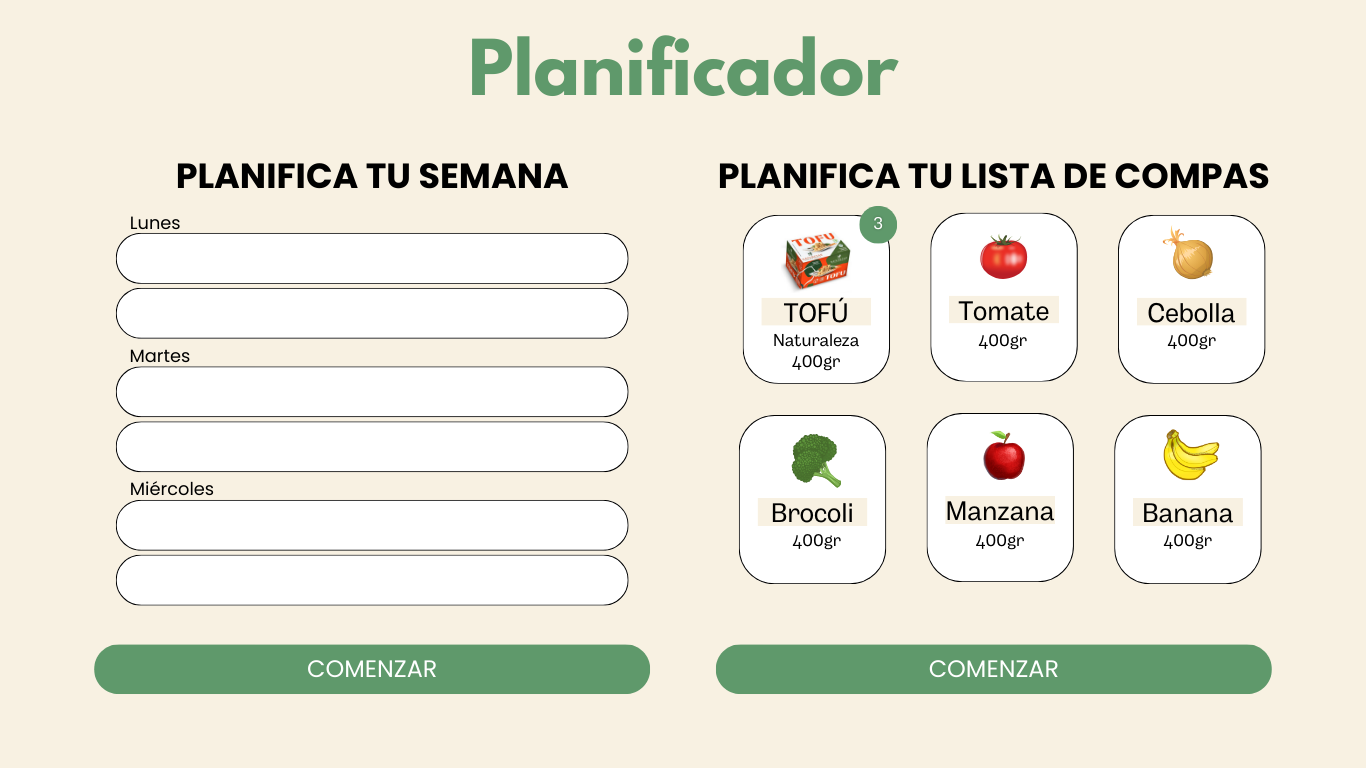
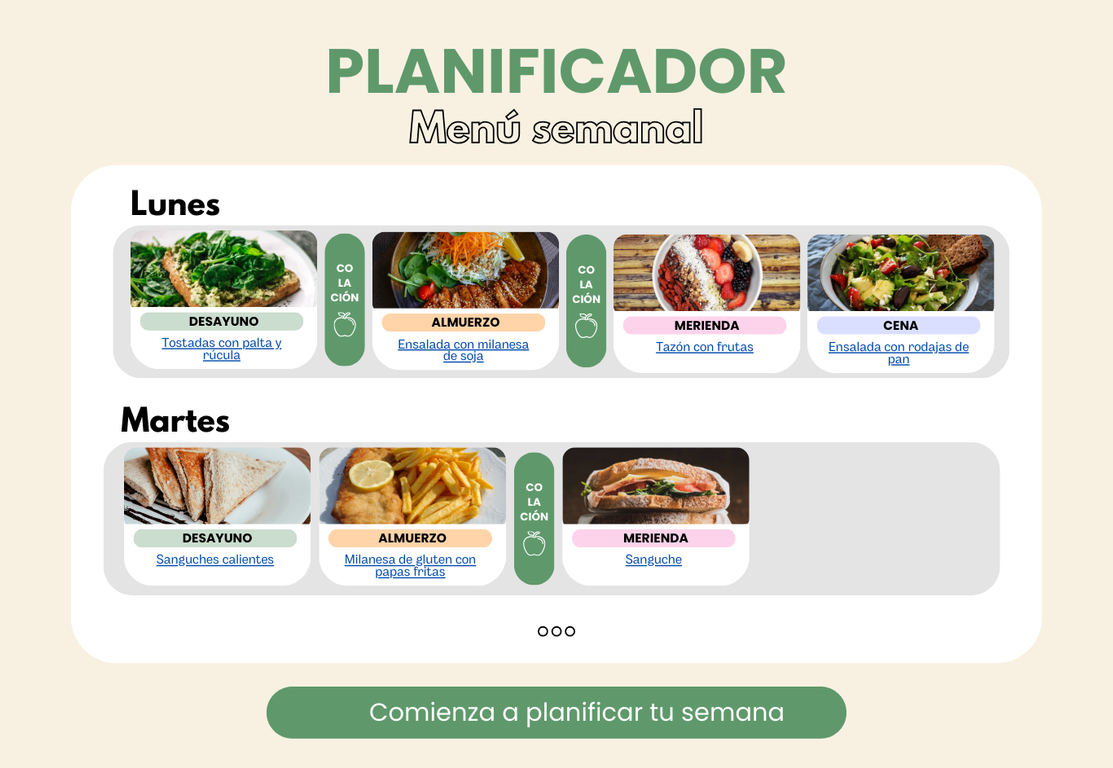
1era versión del planificador semanal

diff --git a/css/styles.css b/css/styles.css
@@ -1,1 +1,1 @@
-body{margin:0;padding:0}.boton{display:flex;justify-content:center}.boton button{border-radius:25px;width:80%;height:3vw;font-family:"Poppins",sans-serif;font-size:1.5vw}@media (max-width: 768px){.boton button{height:6vw;font-size:3vw}}header{display:flex;flex-direction:row;justify-content:space-between;align-items:center;margin-top:0;padding:0 1vw}header #logo{display:flex;flex-direction:row;align-items:center;gap:1vw}header #logo img{width:2vw;height:2vw}header #logo h1{font-size:1.5vw;font-family:"Poppins",sans-serif}header #menuOpciones{display:flex;flex-direction:row;justify-content:space-around;gap:2vw;align-items:center;font-size:1vw}header #menuOpciones p{font-family:"Poppins",sans-serif}@media (max-width: 768px){header #logo{gap:1vw}header #logo img{width:3vw;height:3vw}header #logo h1{font-size:2.5vw}header #menuOpciones{gap:2vw;font-size:2vw}}#previaPrincipal{background-image:url("../assets/Vegan Web.png");background-position:center;background-repeat:no-repeat;background-size:cover;position:relative;height:27vw;display:flex;justify-content:center;align-items:center}#previaPrincipal .slogan h1{color:#5F996B;text-align:center;font-family:"Poppins",sans-serif;font-weight:400;font-size:3vw}#previaPrincipal .slogan h1 #palabraVegano{text-transform:uppercase;font-weight:600}#previaPrincipal .slogan h1 #palabraUruguay{text-transform:uppercase;font-weight:600;font-size:4vw}#previaRecetario{background-color:#CBDDCE}#previaRecetario .subtituloRecetario{display:flex;flex-direction:row;justify-content:space-around;align-items:center;padding:0 2vw;padding:2vw}#previaRecetario .subtituloRecetario h2{margin:0;font-family:"League Spartan",sans-serif;font-size:5vw}#previaRecetario .subtituloRecetario button{border:none;background:white;width:70%}@media (max-width: 768px){#previaRecetario .subtituloRecetario{display:flex;flex-direction:column;align-items:center;gap:1vw}}#previaRecetario .tresCartasRecetasPrevia{display:flex;flex-direction:row;gap:3vw;padding:2vw;justify-content:center;align-items:center}#previaRecetario .tresCartasRecetasPrevia .cartaPreviaReceta{background-color:white;justify-content:center;display:flex;flex-direction:column;width:25vw}#previaRecetario .tresCartasRecetasPrevia .cartaPreviaReceta .nombreRecetaIndex{background-color:#CBDDCE;text-align:center;width:90%;margin:1vw;border-radius:25px;height:3vw;display:flex;justify-content:center;align-items:center}#previaRecetario .tresCartasRecetasPrevia .cartaPreviaReceta .nombreRecetaIndex p{text-transform:uppercase;font-family:"Poppins",sans-serif;font-weight:500;font-size:1vw}#previaRecetario .tresCartasRecetasPrevia .cartaPreviaReceta .imagenRecetaIndex{display:flex;justify-content:center}#previaRecetario .tresCartasRecetasPrevia .cartaPreviaReceta .imagenRecetaIndex img{width:23vw;height:13vw}#previaRecetario .tresCartasRecetasPrevia .cartaPreviaReceta .botonCartaRecetaIndex{padding:2vw 0 2vw 0;display:flex;justify-content:center}#previaRecetario .tresCartasRecetasPrevia .cartaPreviaReceta .botonCartaRecetaIndex button{border:none;background:#CBDDCE;border-radius:25px;width:70%;font-size:1.5vw;height:2.5vw;font-family:"Poppins",sans-serif}#previaRecetario .tresCartasRecetasPrevia .cartaPreviaReceta .informacionRecetas{padding:0 1vw}#previaRecetario .tresCartasRecetasPrevia .cartaPreviaReceta .informacionRecetas .categoriaReceta{display:flex;flex-direction:row;align-items:center;justify-content:space-between}#previaRecetario .tresCartasRecetasPrevia .cartaPreviaReceta .informacionRecetas .categoriaReceta p{font-family:"Poppins",sans-serif}#previaRecetario .tresCartasRecetasPrevia .cartaPreviaReceta .informacionRecetas .CategoriaReceta_texto{width:50%}#previaRecetario .tresCartasRecetasPrevia .cartaPreviaReceta .informacionRecetas .CategoriaReceta_texto p{border:solid black 1px;background-color:#CBDDCE;height:20px;text-align:center;border-radius:25px;font-family:"Poppins",sans-serif}#previaRecetario .tresCartasRecetasPrevia .cartaPreviaReceta .informacionRecetas_introduccion{display:none}@media (max-width: 1024px){#previaRecetario .tresCartasRecetasPrevia{gap:4vw}#previaRecetario .tresCartasRecetasPrevia .cartaPreviaReceta{width:30vw}}#previaRecetario .tresCartasRecetasPrevia .cartaPreviaReceta:nth-child(1) .categoriaReceta:nth-child(1) .barraAfuera{border:solid black 1px;width:50%;height:20px}#previaRecetario .tresCartasRecetasPrevia .cartaPreviaReceta:nth-child(1) .categoriaReceta:nth-child(1) .barraAfuera .barraDentro{width:25%;height:20px;background-color:#CBDDCE}#previaRecetario .tresCartasRecetasPrevia .cartaPreviaReceta:nth-child(1) .categoriaReceta:nth-child(2) .barraAfuera{border:solid black 1px;width:50%;height:20px}#previaRecetario .tresCartasRecetasPrevia .cartaPreviaReceta:nth-child(1) .categoriaReceta:nth-child(2) .barraAfuera .barraDentro{width:50%;height:20px;background-color:#CBDDCE}#previaRecetario .tresCartasRecetasPrevia .cartaPreviaReceta:nth-child(1) .categoriaReceta:nth-child(3) .barraAfuera{border:solid black 1px;width:50%;height:20px}#previaRecetario .tresCartasRecetasPrevia .cartaPreviaReceta:nth-child(1) .categoriaReceta:nth-child(3) .barraAfuera .barraDentro{width:75%;height:20px;background-color:#CBDDCE}#previaRecetario .tresCartasRecetasPrevia .cartaPreviaReceta:nth-child(1) .categoriaReceta:nth-child(4) .barraAfuera{border:solid black 1px;width:50%;height:20px}#previaRecetario .tresCartasRecetasPrevia .cartaPreviaReceta:nth-child(1) .categoriaReceta:nth-child(4) .barraAfuera .barraDentro{width:10%;height:20px;background-color:#CBDDCE}#previaRecetario .tresCartasRecetasPrevia .cartaPreviaReceta:nth-child(2) .categoriaReceta:nth-child(1) .barraAfuera{border:solid black 1px;width:50%;height:20px}#previaRecetario .tresCartasRecetasPrevia .cartaPreviaReceta:nth-child(2) .categoriaReceta:nth-child(1) .barraAfuera .barraDentro{width:60%;height:20px;background-color:#CBDDCE}#previaRecetario .tresCartasRecetasPrevia .cartaPreviaReceta:nth-child(2) .categoriaReceta:nth-child(2) .barraAfuera{border:solid black 1px;width:50%;height:20px}#previaRecetario .tresCartasRecetasPrevia .cartaPreviaReceta:nth-child(2) .categoriaReceta:nth-child(2) .barraAfuera .barraDentro{width:40%;height:20px;background-color:#CBDDCE}#previaRecetario .tresCartasRecetasPrevia .cartaPreviaReceta:nth-child(2) .categoriaReceta:nth-child(3) .barraAfuera{border:solid black 1px;width:50%;height:20px}#previaRecetario .tresCartasRecetasPrevia .cartaPreviaReceta:nth-child(2) .categoriaReceta:nth-child(3) .barraAfuera .barraDentro{width:75%;height:20px;background-color:#CBDDCE}#previaRecetario .tresCartasRecetasPrevia .cartaPreviaReceta:nth-child(2) .categoriaReceta:nth-child(4) .barraAfuera{border:solid black 1px;width:50%;height:20px}#previaRecetario .tresCartasRecetasPrevia .cartaPreviaReceta:nth-child(2) .categoriaReceta:nth-child(4) .barraAfuera .barraDentro{width:50%;height:20px;background-color:#CBDDCE}#previaRecetario .tresCartasRecetasPrevia .cartaPreviaReceta:nth-child(3) .categoriaReceta:nth-child(1) .barraAfuera{border:solid black 1px;width:50%;height:20px}#previaRecetario .tresCartasRecetasPrevia .cartaPreviaReceta:nth-child(3) .categoriaReceta:nth-child(1) .barraAfuera .barraDentro{width:60%;height:20px;background-color:#CBDDCE}#previaRecetario .tresCartasRecetasPrevia .cartaPreviaReceta:nth-child(3) .categoriaReceta:nth-child(2) .barraAfuera{border:solid black 1px;width:50%;height:20px}#previaRecetario .tresCartasRecetasPrevia .cartaPreviaReceta:nth-child(3) .categoriaReceta:nth-child(2) .barraAfuera .barraDentro{width:20%;height:20px;background-color:#CBDDCE}#previaRecetario .tresCartasRecetasPrevia .cartaPreviaReceta:nth-child(3) .categoriaReceta:nth-child(3) .barraAfuera{border:solid black 1px;width:50%;height:20px}#previaRecetario .tresCartasRecetasPrevia .cartaPreviaReceta:nth-child(3) .categoriaReceta:nth-child(3) .barraAfuera .barraDentro{width:20%;height:20px;background-color:#CBDDCE}#previaRecetario .tresCartasRecetasPrevia .cartaPreviaReceta:nth-child(3) .categoriaReceta:nth-child(4) .barraAfuera{border:solid black 1px;width:50%;height:20px}#previaRecetario .tresCartasRecetasPrevia .cartaPreviaReceta:nth-child(3) .categoriaReceta:nth-child(4) .barraAfuera .barraDentro{width:50%;height:20px;background-color:#CBDDCE}@media (max-width: 768px){#previaRecetario .tresCartasRecetasPrevia{display:flex;flex-direction:column}#previaRecetario .tresCartasRecetasPrevia .cartaPreviaReceta{width:90%;display:grid;grid-template-columns:1fr 2fr;grid-template-rows:repeat(3, 1fr);grid-template-rows:min-content;border-radius:25px;gap:vw}#previaRecetario .tresCartasRecetasPrevia .cartaPreviaReceta .nombreRecetaIndex{grid-column:2/3;grid-row:1/1}#previaRecetario .tresCartasRecetasPrevia .cartaPreviaReceta .nombreRecetaIndex p{font-size:2vw}#previaRecetario .tresCartasRecetasPrevia .cartaPreviaReceta .imagenRecetaIndex{grid-column:1/2;grid-row:1/4;justify-content:start}#previaRecetario .tresCartasRecetasPrevia .cartaPreviaReceta .imagenRecetaIndex img{border-top-left-radius:25px;border-end-start-radius:25px;width:100%;height:100%}#previaRecetario .tresCartasRecetasPrevia .cartaPreviaReceta .botonCartaRecetaIndex{grid-column:2/3;grid-row:3/3}#previaRecetario .tresCartasRecetasPrevia .cartaPreviaReceta .botonCartaRecetaIndex button{background-color:white;border:solid black 1px;font-size:2vw;display:flex;justify-content:center;align-items:center}#previaRecetario .tresCartasRecetasPrevia .cartaPreviaReceta .informacionRecetas{display:none}#previaRecetario .tresCartasRecetasPrevia .cartaPreviaReceta .informacionRecetas_introduccion{display:block;grid-column:2/3;grid-row:2/3;padding:0 1.5vw}#previaRecetario .tresCartasRecetasPrevia .cartaPreviaReceta .informacionRecetas_introduccion p{font-size:2vw;text-align:center}}@media (max-width: 480px){#previaRecetario .tresCartasRecetasPrevia .cartaPreviaReceta .nombreRecetaIndex p{font-size:3vw}#previaRecetario .tresCartasRecetasPrevia .cartaPreviaReceta .botonCartaRecetaIndex button{font-size:3vw;width:70%;height:4vw}#previaRecetario .tresCartasRecetasPrevia .cartaPreviaReceta .imagenRecetaIndex{justify-content:start}#previaRecetario .tresCartasRecetasPrevia .cartaPreviaReceta .imagenRecetaIndex img{height:100%}}#previaAptos .subtituloIndex{display:flex;flex-direction:column;align-items:center;justify-content:center;padding-top:2vw}#previaAptos .subtituloIndex h2{margin:0;font-family:"Poppins",sans-serif;font-size:3vw}#previaAptos .subtituloIndex h3{margin:0;font-family:"Poppins",sans-serif;font-size:2vw;font-weight:500}#previaAptos .circulos{display:flex;justify-content:space-around;align-items:center;padding:3vw 0;gap:1vw}#previaAptos .circulos #ciruclosIzquierda,#previaAptos .circulos #circulosDerecha,#previaAptos .circulos #menuCirculosCentro{display:flex;flex-direction:row;align-items:center;gap:5vw}#previaAptos .circulos .rosado{background-color:#FDD3EB}#previaAptos .circulos .anaranjado{background-color:#FFB672}#previaAptos .circulos .verde{background-color:#CBDDCE}#previaAptos .circulos .circuloChico{width:3vw;height:3vw;border-radius:50%}#previaAptos .circulos .circuloMediano{width:4vw;height:4vw;border-radius:50%}#previaAptos .circulos .circuloGrande{width:5vw;height:5vw;border-radius:50%}#previaAptos .circulos .circuloNormal{width:6vw;height:6vw;border-radius:50%}#previaAptos .productosIndex{display:flex;flex-direction:row;justify-content:center;align-items:center;padding:0 2vw;gap:2vw}#previaAptos .productosIndex .cartaProductoIndex{display:flex;flex-direction:column;align-items:center;border:black 1px solid;padding:1vw}#previaAptos .productosIndex .cartaProductoIndex .imagenProductoIndex img{width:15vw;height:auto;margin-bottom:1.5vw}#previaAptos .productosIndex .cartaProductoIndex .nombreProductoIndex{font-family:"Poppins",sans-serif;padding:0}#previaAptos .productosIndex .cartaProductoIndex .nombreProductoIndex p{margin:0;padding:0 0.5vw;font-weight:400;font-size:2vw}#previaAptos .productosIndex .cartaProductoIndex .marcaProductoIndex{font-family:"League Spartan",sans-serif;font-weight:600;font-size:2vw}#previaAptos .productosIndex .cartaProductoIndex .marcaProductoIndex p{margin-top:2vw}#previaAptos .productosIndex .cartaProductoIndex .precioProductoIndex{font-family:"League Spartan",sans-serif;font-weight:300;font-size:2.5vw}#previaAptos .productosIndex .cartaProductoIndex .precioProductoIndex p{margin:0}#previaAptos .productosIndex .cartaProductoIndex:nth-of-type(1) .nombreProductoIndex{background-color:#FFB672}#previaAptos .productosIndex .cartaProductoIndex:nth-of-type(2) .nombreProductoIndex{background-color:#CBDDCE}#previaAptos .productosIndex .cartaProductoIndex:nth-of-type(3) .nombreProductoIndex{background-color:#FDD3EB}#previaAptos .botonAptosIndex{margin:5vw}#previaAptos .botonAptosIndex button{border:none;background-color:#CBDDCE}#previaMontevideo{background-color:#FFB672}#previaMontevideo .SubtituloMontevideoIndex h2{font-family:"Poppins",sans-serif;text-align:center;font-size:5vw;color:white;margin:0 0 2vw 0;text-shadow:1px 1px 2px gray}#previaMontevideo .cartasMontevideoIndex{display:flex;flex-direction:row;gap:2vw;justify-content:center;padding-bottom:3vw}#previaMontevideo .cartasMontevideoIndex .cartaMontevideoIndex{border-radius:50% 50% 10% 10%;background-color:white;display:flex;flex-direction:column;gap:0.5vw;width:28vw;height:25vw;overflow:hidden}#previaMontevideo .cartasMontevideoIndex .cartaMontevideoIndex .cartaImagenMontevideo{display:flex;justify-content:center;height:10vw}#previaMontevideo .cartasMontevideoIndex .cartaMontevideoIndex .cartaImagenMontevideo img{width:100%;height:auto}#previaMontevideo .cartasMontevideoIndex .cartaMontevideoIndex .cartaInformacionMontevideo{display:flex;flex-direction:column;justify-content:center;align-items:center}#previaMontevideo .cartasMontevideoIndex .cartaMontevideoIndex .cartaInformacionMontevideo p{text-align:center;padding:0 1.5vw;margin:0;font-size:1.2vw;font-family:"League Spartan",sans-serif}#previaMontevideo .cartasMontevideoIndex .cartaMontevideoIndex .cartaInformacionMontevideo p:not(:first-child){margin-bottom:1vw}#previaMontevideo .cartasMontevideoIndex .cartaMontevideoIndex .cartaInformacionMontevideo .cartaNombreMontevideo{font-family:"Poppins",sans-serif;font-weight:600;font-size:2vw}#previaMontevideo .cartasMontevideoIndex .cartaMontevideoIndex .cartaInformacionMontevideo .cartaDescripcionMontevideo{font-weight:400;font-size:1.5vw}#previaMontevideo .cartasMontevideoIndex .cartaMontevideoIndex .cartaInformacionMontevideo .cartaHorarioMontevideo{margin-bottom:1vw}@media (max-width: 768px){#previaMontevideo .cartasMontevideoIndex .cartaMontevideoIndex:first-child{display:none}#previaMontevideo .cartasMontevideoIndex .cartaMontevideoIndex{height:35vw;width:45vw}#previaMontevideo .cartasMontevideoIndex .cartaMontevideoIndex .cartaImagenMontevideo{height:15vw}#previaMontevideo .cartasMontevideoIndex .cartaMontevideoIndex .cartaInformacionMontevideo p{text-align:center;padding:0 1.5vw;font-size:2vw;font-family:"League Spartan",sans-serif}#previaMontevideo .cartasMontevideoIndex .cartaMontevideoIndex .cartaInformacionMontevideo .cartaNombreMontevideo{font-size:2.5vw}#previaMontevideo .cartasMontevideoIndex .cartaMontevideoIndex .cartaInformacionMontevideo .cartaDescripcionMontevideo{font-size:2.5vw}}#previaMontevideo .botonMontevideoIndex{padding:2vw 0 2vw 0}#previaMontevideo .botonMontevideoIndex button{border:none;box-shadow:1px 1px 2px gray;background-color:white}@media (max-width: 768px){#previaMontevideo .SubtituloMontevideoIndex h2{font-size:6.5vw}}#previaBlog{padding-top:3vw;display:flex;flex-direction:column;gap:3vw;padding-bottom:5vw}#previaBlog .subtituloResaltadorBlogIndex{display:flex;align-items:center;justify-content:center;position:relative}#previaBlog .subtituloResaltadorBlogIndex img{height:7vw}#previaBlog .subtituloResaltadorBlogIndex .subtituloBlogIndex{position:absolute}#previaBlog .subtituloResaltadorBlogIndex .subtituloBlogIndex h2{font-family:"Poppins",sans-serif;font-size:5vw}#previaBlog .cartasBlogIndex{display:flex;flex-direction:row;align-items:center;justify-content:center;gap:2vw;padding:0 2vw}#previaBlog .cartasBlogIndex .cartaBlogIndex{border:black 1px solid;padding:1vw;background:white}#previaBlog .cartasBlogIndex .cartaBlogIndex .imagenCartaBlogIndex{display:flex;justify-content:center;align-items:center}#previaBlog .cartasBlogIndex .cartaBlogIndex .imagenCartaBlogIndex img{width:20vw;height:auto}#previaBlog .cartasBlogIndex .cartaBlogIndex .tituloCartaBlogIndex{background-color:#FFB672}#previaBlog .cartasBlogIndex .cartaBlogIndex .tituloCartaBlogIndex p{color:white;text-shadow:1px 1px 2px gray;font-family:"Poppins",sans-serif;text-align:center;font-size:2vw;font-weight:500}#previaBlog .cartasBlogIndex .cartaBlogIndex .infoAdicionalCartaBlogIndex p{font-family:"League Spartan",sans-serif;text-align:center}@media (max-width: 480px){#previaBlog .cartasBlogIndex{flex-direction:column}#previaBlog .cartasBlogIndex .cartaBlogIndex{width:70%;display:grid;grid-template-columns:1fr 2fr;grid-template-rows:1fr 4fr}#previaBlog .cartasBlogIndex .cartaBlogIndex .imagenCartaBlogIndex{grid-column:1/2;grid-row:2/3}#previaBlog .cartasBlogIndex .cartaBlogIndex .imagenCartaBlogIndex img{width:100%;padding:0 3vw}#previaBlog .cartasBlogIndex .cartaBlogIndex .tituloCartaBlogIndex{grid-column:1/3;grid-row:1/2;height:4vw;display:flex;align-items:center;justify-content:center;padding:0}#previaBlog .cartasBlogIndex .cartaBlogIndex .tituloCartaBlogIndex p{font-size:3vw;margin:0}#previaBlog .cartasBlogIndex .cartaBlogIndex .infoAdicionalCartaBlogIndex{grid-column:2/3;grid-row:2/3}#previaBlog .cartasBlogIndex .cartaBlogIndex .infoAdicionalCartaBlogIndex p{font-size:2.5vw}}@media (max-width: 480px){#previaBlog .cartaBlogIndex:first-child,#previaBlog .cartaBlogIndex:last-child{display:none}}#previaBlog .botonBlogIndex button{border:none;background-color:#FDD3EB}
+body{margin:0;padding:0}.boton{display:flex;justify-content:center}.boton button{border-radius:25px;width:80%;height:3vw;font-family:"Poppins",sans-serif;font-size:1.5vw}@media (max-width: 768px){.boton button{height:6vw;font-size:3vw}}header{display:flex;flex-direction:row;justify-content:space-between;align-items:center;margin-top:0;padding:0 1vw}header #logo{display:flex;flex-direction:row;align-items:center;gap:1vw}header #logo img{width:2vw;height:2vw}header #logo h1{font-size:1.5vw;font-family:"Poppins",sans-serif}header #menuOpciones{display:flex;flex-direction:row;justify-content:space-around;gap:2vw;align-items:center;font-size:1vw}header #menuOpciones p{font-family:"Poppins",sans-serif}@media (max-width: 768px){header #logo{gap:1vw}header #logo img{width:3vw;height:3vw}header #logo h1{font-size:2.5vw}header #menuOpciones{gap:2vw;font-size:2vw}}#previaPrincipal{background-image:url("../assets/Vegan Web.png");background-position:center;background-repeat:no-repeat;background-size:cover;position:relative;height:27vw;display:flex;justify-content:center;align-items:center}#previaPrincipal .slogan h1{color:#5F996B;text-align:center;font-family:"Poppins",sans-serif;font-weight:400;font-size:3vw}#previaPrincipal .slogan h1 #palabraVegano{text-transform:uppercase;font-weight:600}#previaPrincipal .slogan h1 #palabraUruguay{text-transform:uppercase;font-weight:600;font-size:4vw}#previaRecetario{background-color:#CBDDCE}#previaRecetario .subtituloRecetario{display:flex;flex-direction:row;justify-content:space-around;align-items:center;padding:0 2vw;padding:2vw}#previaRecetario .subtituloRecetario h2{margin:0;font-family:"League Spartan",sans-serif;font-size:5vw}#previaRecetario .subtituloRecetario button{border:none;background:white;width:70%}@media (max-width: 768px){#previaRecetario .subtituloRecetario{display:flex;flex-direction:column;align-items:center;gap:1vw}}#previaRecetario .tresCartasRecetasPrevia{display:flex;flex-direction:row;gap:3vw;padding:2vw;justify-content:center;align-items:center}#previaRecetario .tresCartasRecetasPrevia .cartaPreviaReceta{background-color:white;justify-content:center;display:flex;flex-direction:column;width:25vw}#previaRecetario .tresCartasRecetasPrevia .cartaPreviaReceta .nombreRecetaIndex{background-color:#CBDDCE;text-align:center;width:90%;margin:1vw;border-radius:25px;height:3vw;display:flex;justify-content:center;align-items:center}#previaRecetario .tresCartasRecetasPrevia .cartaPreviaReceta .nombreRecetaIndex p{text-transform:uppercase;font-family:"Poppins",sans-serif;font-weight:500;font-size:1vw}#previaRecetario .tresCartasRecetasPrevia .cartaPreviaReceta .imagenRecetaIndex{display:flex;justify-content:center}#previaRecetario .tresCartasRecetasPrevia .cartaPreviaReceta .imagenRecetaIndex img{width:23vw;height:13vw}#previaRecetario .tresCartasRecetasPrevia .cartaPreviaReceta .botonCartaRecetaIndex{padding:2vw 0 2vw 0;display:flex;justify-content:center}#previaRecetario .tresCartasRecetasPrevia .cartaPreviaReceta .botonCartaRecetaIndex button{border:none;background:#CBDDCE;border-radius:25px;width:70%;font-size:1.5vw;height:2.5vw;font-family:"Poppins",sans-serif}#previaRecetario .tresCartasRecetasPrevia .cartaPreviaReceta .informacionRecetas{padding:0 1vw}#previaRecetario .tresCartasRecetasPrevia .cartaPreviaReceta .informacionRecetas .categoriaReceta{display:flex;flex-direction:row;align-items:center;justify-content:space-between}#previaRecetario .tresCartasRecetasPrevia .cartaPreviaReceta .informacionRecetas .categoriaReceta p{font-family:"Poppins",sans-serif}#previaRecetario .tresCartasRecetasPrevia .cartaPreviaReceta .informacionRecetas .CategoriaReceta_texto{width:50%}#previaRecetario .tresCartasRecetasPrevia .cartaPreviaReceta .informacionRecetas .CategoriaReceta_texto p{border:solid black 1px;background-color:#CBDDCE;height:20px;text-align:center;border-radius:25px;font-family:"Poppins",sans-serif}#previaRecetario .tresCartasRecetasPrevia .cartaPreviaReceta .informacionRecetas_introduccion{display:none}@media (max-width: 1024px){#previaRecetario .tresCartasRecetasPrevia{gap:4vw}#previaRecetario .tresCartasRecetasPrevia .cartaPreviaReceta{width:30vw}}#previaRecetario .tresCartasRecetasPrevia .cartaPreviaReceta:nth-child(1) .categoriaReceta:nth-child(1) .barraAfuera{border:solid black 1px;width:50%;height:20px}#previaRecetario .tresCartasRecetasPrevia .cartaPreviaReceta:nth-child(1) .categoriaReceta:nth-child(1) .barraAfuera .barraDentro{width:25%;height:20px;background-color:#CBDDCE}#previaRecetario .tresCartasRecetasPrevia .cartaPreviaReceta:nth-child(1) .categoriaReceta:nth-child(2) .barraAfuera{border:solid black 1px;width:50%;height:20px}#previaRecetario .tresCartasRecetasPrevia .cartaPreviaReceta:nth-child(1) .categoriaReceta:nth-child(2) .barraAfuera .barraDentro{width:50%;height:20px;background-color:#CBDDCE}#previaRecetario .tresCartasRecetasPrevia .cartaPreviaReceta:nth-child(1) .categoriaReceta:nth-child(3) .barraAfuera{border:solid black 1px;width:50%;height:20px}#previaRecetario .tresCartasRecetasPrevia .cartaPreviaReceta:nth-child(1) .categoriaReceta:nth-child(3) .barraAfuera .barraDentro{width:75%;height:20px;background-color:#CBDDCE}#previaRecetario .tresCartasRecetasPrevia .cartaPreviaReceta:nth-child(1) .categoriaReceta:nth-child(4) .barraAfuera{border:solid black 1px;width:50%;height:20px}#previaRecetario .tresCartasRecetasPrevia .cartaPreviaReceta:nth-child(1) .categoriaReceta:nth-child(4) .barraAfuera .barraDentro{width:10%;height:20px;background-color:#CBDDCE}#previaRecetario .tresCartasRecetasPrevia .cartaPreviaReceta:nth-child(2) .categoriaReceta:nth-child(1) .barraAfuera{border:solid black 1px;width:50%;height:20px}#previaRecetario .tresCartasRecetasPrevia .cartaPreviaReceta:nth-child(2) .categoriaReceta:nth-child(1) .barraAfuera .barraDentro{width:60%;height:20px;background-color:#CBDDCE}#previaRecetario .tresCartasRecetasPrevia .cartaPreviaReceta:nth-child(2) .categoriaReceta:nth-child(2) .barraAfuera{border:solid black 1px;width:50%;height:20px}#previaRecetario .tresCartasRecetasPrevia .cartaPreviaReceta:nth-child(2) .categoriaReceta:nth-child(2) .barraAfuera .barraDentro{width:40%;height:20px;background-color:#CBDDCE}#previaRecetario .tresCartasRecetasPrevia .cartaPreviaReceta:nth-child(2) .categoriaReceta:nth-child(3) .barraAfuera{border:solid black 1px;width:50%;height:20px}#previaRecetario .tresCartasRecetasPrevia .cartaPreviaReceta:nth-child(2) .categoriaReceta:nth-child(3) .barraAfuera .barraDentro{width:75%;height:20px;background-color:#CBDDCE}#previaRecetario .tresCartasRecetasPrevia .cartaPreviaReceta:nth-child(2) .categoriaReceta:nth-child(4) .barraAfuera{border:solid black 1px;width:50%;height:20px}#previaRecetario .tresCartasRecetasPrevia .cartaPreviaReceta:nth-child(2) .categoriaReceta:nth-child(4) .barraAfuera .barraDentro{width:50%;height:20px;background-color:#CBDDCE}#previaRecetario .tresCartasRecetasPrevia .cartaPreviaReceta:nth-child(3) .categoriaReceta:nth-child(1) .barraAfuera{border:solid black 1px;width:50%;height:20px}#previaRecetario .tresCartasRecetasPrevia .cartaPreviaReceta:nth-child(3) .categoriaReceta:nth-child(1) .barraAfuera .barraDentro{width:60%;height:20px;background-color:#CBDDCE}#previaRecetario .tresCartasRecetasPrevia .cartaPreviaReceta:nth-child(3) .categoriaReceta:nth-child(2) .barraAfuera{border:solid black 1px;width:50%;height:20px}#previaRecetario .tresCartasRecetasPrevia .cartaPreviaReceta:nth-child(3) .categoriaReceta:nth-child(2) .barraAfuera .barraDentro{width:20%;height:20px;background-color:#CBDDCE}#previaRecetario .tresCartasRecetasPrevia .cartaPreviaReceta:nth-child(3) .categoriaReceta:nth-child(3) .barraAfuera{border:solid black 1px;width:50%;height:20px}#previaRecetario .tresCartasRecetasPrevia .cartaPreviaReceta:nth-child(3) .categoriaReceta:nth-child(3) .barraAfuera .barraDentro{width:20%;height:20px;background-color:#CBDDCE}#previaRecetario .tresCartasRecetasPrevia .cartaPreviaReceta:nth-child(3) .categoriaReceta:nth-child(4) .barraAfuera{border:solid black 1px;width:50%;height:20px}#previaRecetario .tresCartasRecetasPrevia .cartaPreviaReceta:nth-child(3) .categoriaReceta:nth-child(4) .barraAfuera .barraDentro{width:50%;height:20px;background-color:#CBDDCE}@media (max-width: 768px){#previaRecetario .tresCartasRecetasPrevia{display:flex;flex-direction:column}#previaRecetario .tresCartasRecetasPrevia .cartaPreviaReceta{width:90%;display:grid;grid-template-columns:1fr 2fr;grid-template-rows:repeat(3, 1fr);grid-template-rows:min-content;border-radius:25px;gap:vw}#previaRecetario .tresCartasRecetasPrevia .cartaPreviaReceta .nombreRecetaIndex{grid-column:2/3;grid-row:1/1}#previaRecetario .tresCartasRecetasPrevia .cartaPreviaReceta .nombreRecetaIndex p{font-size:2vw}#previaRecetario .tresCartasRecetasPrevia .cartaPreviaReceta .imagenRecetaIndex{grid-column:1/2;grid-row:1/4;justify-content:start}#previaRecetario .tresCartasRecetasPrevia .cartaPreviaReceta .imagenRecetaIndex img{border-top-left-radius:25px;border-end-start-radius:25px;width:100%;height:100%}#previaRecetario .tresCartasRecetasPrevia .cartaPreviaReceta .botonCartaRecetaIndex{grid-column:2/3;grid-row:3/3}#previaRecetario .tresCartasRecetasPrevia .cartaPreviaReceta .botonCartaRecetaIndex button{background-color:white;border:solid black 1px;font-size:2vw;display:flex;justify-content:center;align-items:center}#previaRecetario .tresCartasRecetasPrevia .cartaPreviaReceta .informacionRecetas{display:none}#previaRecetario .tresCartasRecetasPrevia .cartaPreviaReceta .informacionRecetas_introduccion{display:block;grid-column:2/3;grid-row:2/3;padding:0 1.5vw}#previaRecetario .tresCartasRecetasPrevia .cartaPreviaReceta .informacionRecetas_introduccion p{font-size:2vw;text-align:center}}@media (max-width: 480px){#previaRecetario .tresCartasRecetasPrevia .cartaPreviaReceta .nombreRecetaIndex p{font-size:3vw}#previaRecetario .tresCartasRecetasPrevia .cartaPreviaReceta .botonCartaRecetaIndex button{font-size:3vw;width:70%;height:4vw}#previaRecetario .tresCartasRecetasPrevia .cartaPreviaReceta .imagenRecetaIndex{justify-content:start}#previaRecetario .tresCartasRecetasPrevia .cartaPreviaReceta .imagenRecetaIndex img{height:100%}}#previaAptos .subtituloIndex{display:flex;flex-direction:column;align-items:center;justify-content:center;padding-top:2vw}#previaAptos .subtituloIndex h2{margin:0;font-family:"Poppins",sans-serif;font-size:3vw}#previaAptos .subtituloIndex h3{margin:0;font-family:"Poppins",sans-serif;font-size:2vw;font-weight:500}#previaAptos .circulos{display:flex;justify-content:space-around;align-items:center;padding:3vw 0;gap:1vw}#previaAptos .circulos #ciruclosIzquierda,#previaAptos .circulos #circulosDerecha,#previaAptos .circulos #menuCirculosCentro{display:flex;flex-direction:row;align-items:center;gap:5vw}#previaAptos .circulos .rosado{background-color:#FDD3EB}#previaAptos .circulos .anaranjado{background-color:#FFB672}#previaAptos .circulos .verde{background-color:#CBDDCE}#previaAptos .circulos .circuloChico{width:3vw;height:3vw;border-radius:50%}#previaAptos .circulos .circuloMediano{width:4vw;height:4vw;border-radius:50%}#previaAptos .circulos .circuloGrande{width:5vw;height:5vw;border-radius:50%}#previaAptos .circulos .circuloNormal{width:6vw;height:6vw;border-radius:50%}#previaAptos .productosIndex{display:flex;flex-direction:row;justify-content:center;align-items:center;padding:0 2vw;gap:2vw}#previaAptos .productosIndex .cartaProductoIndex{display:flex;flex-direction:column;align-items:center;border:black 1px solid;padding:1vw}#previaAptos .productosIndex .cartaProductoIndex .imagenProductoIndex img{width:15vw;height:auto;margin-bottom:1.5vw}#previaAptos .productosIndex .cartaProductoIndex .nombreProductoIndex{font-family:"Poppins",sans-serif;padding:0}#previaAptos .productosIndex .cartaProductoIndex .nombreProductoIndex p{margin:0;padding:0 0.5vw;font-weight:400;font-size:2vw}#previaAptos .productosIndex .cartaProductoIndex .marcaProductoIndex{font-family:"League Spartan",sans-serif;font-weight:600;font-size:2vw}#previaAptos .productosIndex .cartaProductoIndex .marcaProductoIndex p{margin-top:2vw}#previaAptos .productosIndex .cartaProductoIndex .precioProductoIndex{font-family:"League Spartan",sans-serif;font-weight:300;font-size:2.5vw}#previaAptos .productosIndex .cartaProductoIndex .precioProductoIndex p{margin:0}#previaAptos .productosIndex .cartaProductoIndex:nth-of-type(1) .nombreProductoIndex{background-color:#FFB672}#previaAptos .productosIndex .cartaProductoIndex:nth-of-type(2) .nombreProductoIndex{background-color:#CBDDCE}#previaAptos .productosIndex .cartaProductoIndex:nth-of-type(3) .nombreProductoIndex{background-color:#FDD3EB}#previaAptos .botonAptosIndex{margin:5vw}#previaAptos .botonAptosIndex button{border:none;background-color:#CBDDCE}#previaMontevideo{background-color:#FFB672}#previaMontevideo .SubtituloMontevideoIndex h2{font-family:"Poppins",sans-serif;text-align:center;font-size:5vw;color:white;margin:0 0 2vw 0;text-shadow:1px 1px 2px gray}#previaMontevideo .cartasMontevideoIndex{display:flex;flex-direction:row;gap:2vw;justify-content:center;padding-bottom:3vw}#previaMontevideo .cartasMontevideoIndex .cartaMontevideoIndex{border-radius:50% 50% 10% 10%;background-color:white;display:flex;flex-direction:column;gap:0.5vw;width:28vw;height:25vw;overflow:hidden}#previaMontevideo .cartasMontevideoIndex .cartaMontevideoIndex .cartaImagenMontevideo{display:flex;justify-content:center;height:10vw}#previaMontevideo .cartasMontevideoIndex .cartaMontevideoIndex .cartaImagenMontevideo img{width:100%;height:auto}#previaMontevideo .cartasMontevideoIndex .cartaMontevideoIndex .cartaInformacionMontevideo{display:flex;flex-direction:column;justify-content:center;align-items:center}#previaMontevideo .cartasMontevideoIndex .cartaMontevideoIndex .cartaInformacionMontevideo p{text-align:center;padding:0 1.5vw;margin:0;font-size:1.2vw;font-family:"League Spartan",sans-serif}#previaMontevideo .cartasMontevideoIndex .cartaMontevideoIndex .cartaInformacionMontevideo p:not(:first-child){margin-bottom:1vw}#previaMontevideo .cartasMontevideoIndex .cartaMontevideoIndex .cartaInformacionMontevideo .cartaNombreMontevideo{font-family:"Poppins",sans-serif;font-weight:600;font-size:2vw}#previaMontevideo .cartasMontevideoIndex .cartaMontevideoIndex .cartaInformacionMontevideo .cartaDescripcionMontevideo{font-weight:400;font-size:1.5vw}#previaMontevideo .cartasMontevideoIndex .cartaMontevideoIndex .cartaInformacionMontevideo .cartaHorarioMontevideo{margin-bottom:1vw}@media (max-width: 768px){#previaMontevideo .cartasMontevideoIndex .cartaMontevideoIndex:first-child{display:none}#previaMontevideo .cartasMontevideoIndex .cartaMontevideoIndex{height:35vw;width:45vw}#previaMontevideo .cartasMontevideoIndex .cartaMontevideoIndex .cartaImagenMontevideo{height:15vw}#previaMontevideo .cartasMontevideoIndex .cartaMontevideoIndex .cartaInformacionMontevideo p{text-align:center;padding:0 1.5vw;font-size:2vw;font-family:"League Spartan",sans-serif}#previaMontevideo .cartasMontevideoIndex .cartaMontevideoIndex .cartaInformacionMontevideo .cartaNombreMontevideo{font-size:2.5vw}#previaMontevideo .cartasMontevideoIndex .cartaMontevideoIndex .cartaInformacionMontevideo .cartaDescripcionMontevideo{font-size:2.5vw}}#previaMontevideo .botonMontevideoIndex{padding:2vw 0 2vw 0}#previaMontevideo .botonMontevideoIndex button{border:none;box-shadow:1px 1px 2px gray;background-color:white}@media (max-width: 768px){#previaMontevideo .SubtituloMontevideoIndex h2{font-size:6.5vw}}#previaBlog{padding-top:3vw;display:flex;flex-direction:column;gap:3vw;padding-bottom:5vw}#previaBlog .subtituloResaltadorBlogIndex{display:flex;align-items:center;justify-content:center;position:relative}#previaBlog .subtituloResaltadorBlogIndex img{height:7vw}#previaBlog .subtituloResaltadorBlogIndex .subtituloBlogIndex{position:absolute}#previaBlog .subtituloResaltadorBlogIndex .subtituloBlogIndex h2{font-family:"Poppins",sans-serif;font-size:5vw}#previaBlog .cartasBlogIndex{display:flex;flex-direction:row;align-items:center;justify-content:center;gap:2vw;padding:0 2vw}#previaBlog .cartasBlogIndex .cartaBlogIndex{border:black 1px solid;padding:1vw;background:white}#previaBlog .cartasBlogIndex .cartaBlogIndex .imagenCartaBlogIndex{display:flex;justify-content:center;align-items:center}#previaBlog .cartasBlogIndex .cartaBlogIndex .imagenCartaBlogIndex img{width:20vw;height:auto}#previaBlog .cartasBlogIndex .cartaBlogIndex .tituloCartaBlogIndex{background-color:#FFB672}#previaBlog .cartasBlogIndex .cartaBlogIndex .tituloCartaBlogIndex p{color:white;text-shadow:1px 1px 2px gray;font-family:"Poppins",sans-serif;text-align:center;font-size:2vw;font-weight:500}#previaBlog .cartasBlogIndex .cartaBlogIndex .infoAdicionalCartaBlogIndex p{font-family:"League Spartan",sans-serif;text-align:center}@media (max-width: 480px){#previaBlog .cartasBlogIndex{flex-direction:column}#previaBlog .cartasBlogIndex .cartaBlogIndex{width:70%;display:grid;grid-template-columns:1fr 2fr;grid-template-rows:1fr 4fr}#previaBlog .cartasBlogIndex .cartaBlogIndex .imagenCartaBlogIndex{grid-column:1/2;grid-row:2/3}#previaBlog .cartasBlogIndex .cartaBlogIndex .imagenCartaBlogIndex img{width:100%;padding:0 3vw}#previaBlog .cartasBlogIndex .cartaBlogIndex .tituloCartaBlogIndex{grid-column:1/3;grid-row:1/2;height:4vw;display:flex;align-items:center;justify-content:center;padding:0}#previaBlog .cartasBlogIndex .cartaBlogIndex .tituloCartaBlogIndex p{font-size:3vw;margin:0}#previaBlog .cartasBlogIndex .cartaBlogIndex .infoAdicionalCartaBlogIndex{grid-column:2/3;grid-row:2/3}#previaBlog .cartasBlogIndex .cartaBlogIndex .infoAdicionalCartaBlogIndex p{font-size:2.5vw}}@media (max-width: 480px){#previaBlog .cartaBlogIndex:first-child,#previaBlog .cartaBlogIndex:last-child{display:none}}#previaBlog .botonBlogIndex button{border:none;background-color:#FDD3EB}#previaPlannerSemanal{background-color:#F8F1E2}#previaPlannerSemanal .previaPlannerSemanal-titulo{display:flex;flex-direction:column;justify-content:center;align-items:center;text-align:center;gap:0}#previaPlannerSemanal .previaPlannerSemanal-titulo .previaPlannerSemanal-titulo_primero{font-family:"Poppins",sans-serif;font-size:4vw;color:#5F996B}#previaPlannerSemanal .previaPlannerSemanal-titulo .previaPlannerSemanal-titulo_primero h2{padding:0;margin:0}#previaPlannerSemanal .previaPlannerSemanal-titulo .previaPlannerSemanal-titulo_segundo{font-family:"Poppins",sans-serif;font-size:3.5vw;color:transparent;-webkit-text-stroke-width:1px;-webkit-text-stroke-color:black}#previaPlannerSemanal .previaPlannerSemanal-titulo .previaPlannerSemanal-titulo_segundo h3{padding:0;margin:0}#previaPlannerSemanal .previaPlannerSemanal-grilla{background-color:white;border-radius:25px;display:flex;flex-direction:column;padding:2vw;margin:0 2vw}#previaPlannerSemanal .previaPlannerSemanal-grilla .grillaPlanificacionDiaSemana{display:flex;flex-direction:column;margin:1vw 0}#previaPlannerSemanal .previaPlannerSemanal-grilla .grillaPlanificacionDiaSemana .grillaTituloDia p{font-family:"League Spartan",sans-serif;font-size:4vw;font-weight:600;padding:0;margin:1vw}#previaPlannerSemanal .previaPlannerSemanal-grilla .grillaPlanificacionDiaSemana .grillaContenedorDia{background-color:#d8d8d8;display:flex;flex-direction:row;align-items:center;border-radius:25px;justify-content:left;padding:1vw;gap:1vw}#previaPlannerSemanal .previaPlannerSemanal-grilla .grillaPlanificacionDiaSemana .grillaContenedorDia .grillaContenedorComida{display:flex;flex-direction:column;background-color:white;padding:1vw;border-radius:25px;gap:1vw}#previaPlannerSemanal .previaPlannerSemanal-grilla .grillaPlanificacionDiaSemana .grillaContenedorDia .grillaContenedorComida .contenedorComidaFoto img{width:20vw;height:auto;border-radius:25px}#previaPlannerSemanal .previaPlannerSemanal-grilla .grillaPlanificacionDiaSemana .grillaContenedorDia .grillaContenedorComida .contenedorComidaTitulo{background-color:#CBDDCE;border-radius:25px;display:flex;flex-direction:column;align-items:center;width:100%}#previaPlannerSemanal .previaPlannerSemanal-grilla .grillaPlanificacionDiaSemana .grillaContenedorDia .grillaContenedorComida .contenedorComidaTitulo p{padding:0;margin:0;font-family:"League Spartan",sans-serif;font-size:3vw;font-weight:500}#previaPlannerSemanal .previaPlannerSemanal-grilla .grillaPlanificacionDiaSemana .grillaContenedorDia .grillaContenedorComida .contenedorComidaNombre{margin:0 auto}#previaPlannerSemanal .previaPlannerSemanal-grilla .grillaPlanificacionDiaSemana .grillaContenedorDia .grillaContenedorComida .contenedorComidaNombre a{font-size:2vw;font-family:"League Spartan",sans-serif}#previaPlannerSemanal .previaPlannerSemanal-grilla .grillaPlanificacionDiaSemana .grillaContenedorDia .grillaContenedorSnack{background-color:#5F996B;height:100%;display:flex;flex-direction:column;align-items:center;justify-content:center;padding:2vw 1vw;border-radius:25px;gap:1vw}#previaPlannerSemanal .previaPlannerSemanal-grilla .grillaPlanificacionDiaSemana .grillaContenedorDia .grillaContenedorSnack .contenedorSnackTitulo p{text-align:center;color:white;font-family:"League Spartan",sans-serif;font-size:2.5vw;line-height:2.5vw;padding:0;margin:0}#previaPlannerSemanal .previaPlannerSemanal-grilla .grillaPlanificacionDiaSemana .grillaContenedorDia .grillaContenedorSnack .contenedorSnackImagen img{width:3vw;height:auto}

diff --git a/scss/styles.scss b/scss/styles.scss
@@ -690,3 +690,128 @@ header{
         }
     }
 }
+
+#previaPlannerSemanal{
+    background-color: $colorBeige;
+    .previaPlannerSemanal-titulo{
+        display: flex;
+        flex-direction: column;
+        justify-content: center;
+        align-items: center;
+        text-align: center;
+        gap: 0;
+        .previaPlannerSemanal-titulo_primero{
+            font-family: $fuent-POPPINS;
+            font-size: 4vw;
+            color: $colorVerdeOscuro;
+            h2{
+                padding: 0;
+                margin: 0;
+            }
+        }
+        .previaPlannerSemanal-titulo_segundo{
+            font-family: $fuent-POPPINS;
+            font-size: 3.5vw;
+            color: transparent; 
+            -webkit-text-stroke-width: 1px; /* Ancho del borde del texto */
+            -webkit-text-stroke-color: black; /* Color del borde del texto */
+            h3{
+                padding: 0;
+                margin: 0;
+            }
+        }
+    }
+    .previaPlannerSemanal-grilla{
+        background-color: white;
+        border-radius: 25px;
+        display: flex;
+        flex-direction: column;
+        padding: 2vw;
+        margin: 0 2vw;
+        .grillaPlanificacionDiaSemana{
+            display: flex;
+            flex-direction: column;
+            margin: 1vw 0;
+            .grillaTituloDia{
+                p{
+                    font-family: $fuente-LEAGUE_SPARTAN;
+                    font-size: 4vw;
+                    font-weight: 600;
+                    padding: 0;
+                    margin: 1vw;
+                }
+            }
+            .grillaContenedorDia{
+                background-color: rgb(216, 216, 216);
+                display: flex;
+                flex-direction: row;
+                align-items: center;
+                border-radius: 25px;
+                justify-content: left;
+                padding: 1vw;
+                gap: 1vw;
+                .grillaContenedorComida{
+                    display: flex;
+                    flex-direction: column;
+                    background-color: white;
+                    padding: 1vw;
+                    border-radius: 25px;
+                    gap: 1vw;
+                    .contenedorComidaFoto img{
+                        width: 20vw;
+                        height: auto;
+                        border-radius: 25px;
+                    }
+                    .contenedorComidaTitulo{
+                        background-color: $colorVerde;
+                        border-radius: 25px;
+                        display: flex;
+                        flex-direction: column;
+                        align-items: center;
+                        width: 100%;
+                        p{
+                            padding: 0;
+                            margin: 0;
+                            font-family: $fuente-LEAGUE_SPARTAN;
+                            font-size: 3vw;
+                            font-weight: 500;
+                        }
+                    }
+                    .contenedorComidaNombre{
+                        margin: 0 auto;
+                        a{
+                            font-size: 2vw;
+                            font-family: $fuente-LEAGUE_SPARTAN;
+                        }
+                    }
+                }
+                .grillaContenedorSnack{
+                    background-color: $colorVerdeOscuro;
+                    height: 100%;
+                    display: flex;
+                    flex-direction: column;
+                    align-items: center;
+                    justify-content: center;
+                    padding: 2vw 1vw;
+                    border-radius: 25px;
+                    gap: 1vw;
+                    .contenedorSnackTitulo{
+                        p{
+                            text-align: center;
+                            color: white;
+                            font-family: $fuente-LEAGUE_SPARTAN;
+                            font-size: 2.5vw;
+                            line-height: 2.5vw;
+                            padding: 0;
+                            margin: 0;
+                        }
+                    }
+                    .contenedorSnackImagen img{
+                        width: 3vw;
+                        height: auto;
+                    }
+                }
+            }
+        }
+    }
+}

diff --git a/index.html b/index.html
@@ -365,7 +365,52 @@
       </div>
     </section>
     
-    <section id="previaPlanner">      
+    <section id="previaPlannerSemanal">
+      <div class="previaPlannerSemanal-titulo">
+        <div class="previaPlannerSemanal-titulo_primero"><h2>Planificador</h2></div>
+        <div class="previaPlannerSemanal-titulo_segundo"><h3>Menú semanal</h3></div>
+      </div> 
+      <div class="previaPlannerSemanal-grilla">
+        <div class="grillaPlanificacionDiaSemana">
+          <div class="grillaTituloDia">
+            <p>Lunes</p>
+          </div>
+          <div class="grillaContenedorDia">
+            <div class="grillaContenedorComida">
+              <div class="contenedorComidaFoto"><img src="https://picsum.photos/700/400?random14" alt=""></div>
+              <div class="contenedorComidaTitulo"><p>Almuerzo</p></div>
+              <div class="contenedorComidaNombre"><a href="">Nombre Comida</a></div>
+            </div>
+            <div>
+            <div class="grillaContenedorSnack">
+              <div class="contenedorSnackTitulo"><p>Co<br>la<br>ción</p></div>
+              <div class="contenedorSnackImagen"><img src="https://picsum.photos/700/400?random15" alt=""></div>
+            </div> 
+            </div>
+          </div>
+        </div>
+        <div class="grillaPlanificacionDiaSemana">
+          <div class="grillaTituloDia">
+            <p>Martes</p>
+          </div>
+          <div class="grillaContenedorDia">
+            <div class="grillaContenedorComida">
+              <div class="contenedorComidaFoto"><img src="https://picsum.photos/700/400?random16" alt=""></div>
+              <div class="contenedorComidaTitulo"><p>Almuerzo</p></div>
+              <div class="contenedorComidaNombre"><a href="">Nombre Comida</a></div>
+            </div>
+            <div>
+            <div class="grillaContenedorSnack">
+              <div class="contenedorSnackTitulo"><p>Co<br>la<br>ción</p></div>
+              <div class="contenedorSnackImagen"><img src="https://picsum.photos/700/400?random15" alt=""></div>
+            </div> 
+            </div>
+          </div>
+        </div>
+      </div>   
+      <div class="boton previaPlannerSemanal-boton">
+        <button>Comienza a palnificar tu semana</button>
+      </div>
     </section>
 </body>
 </html>
